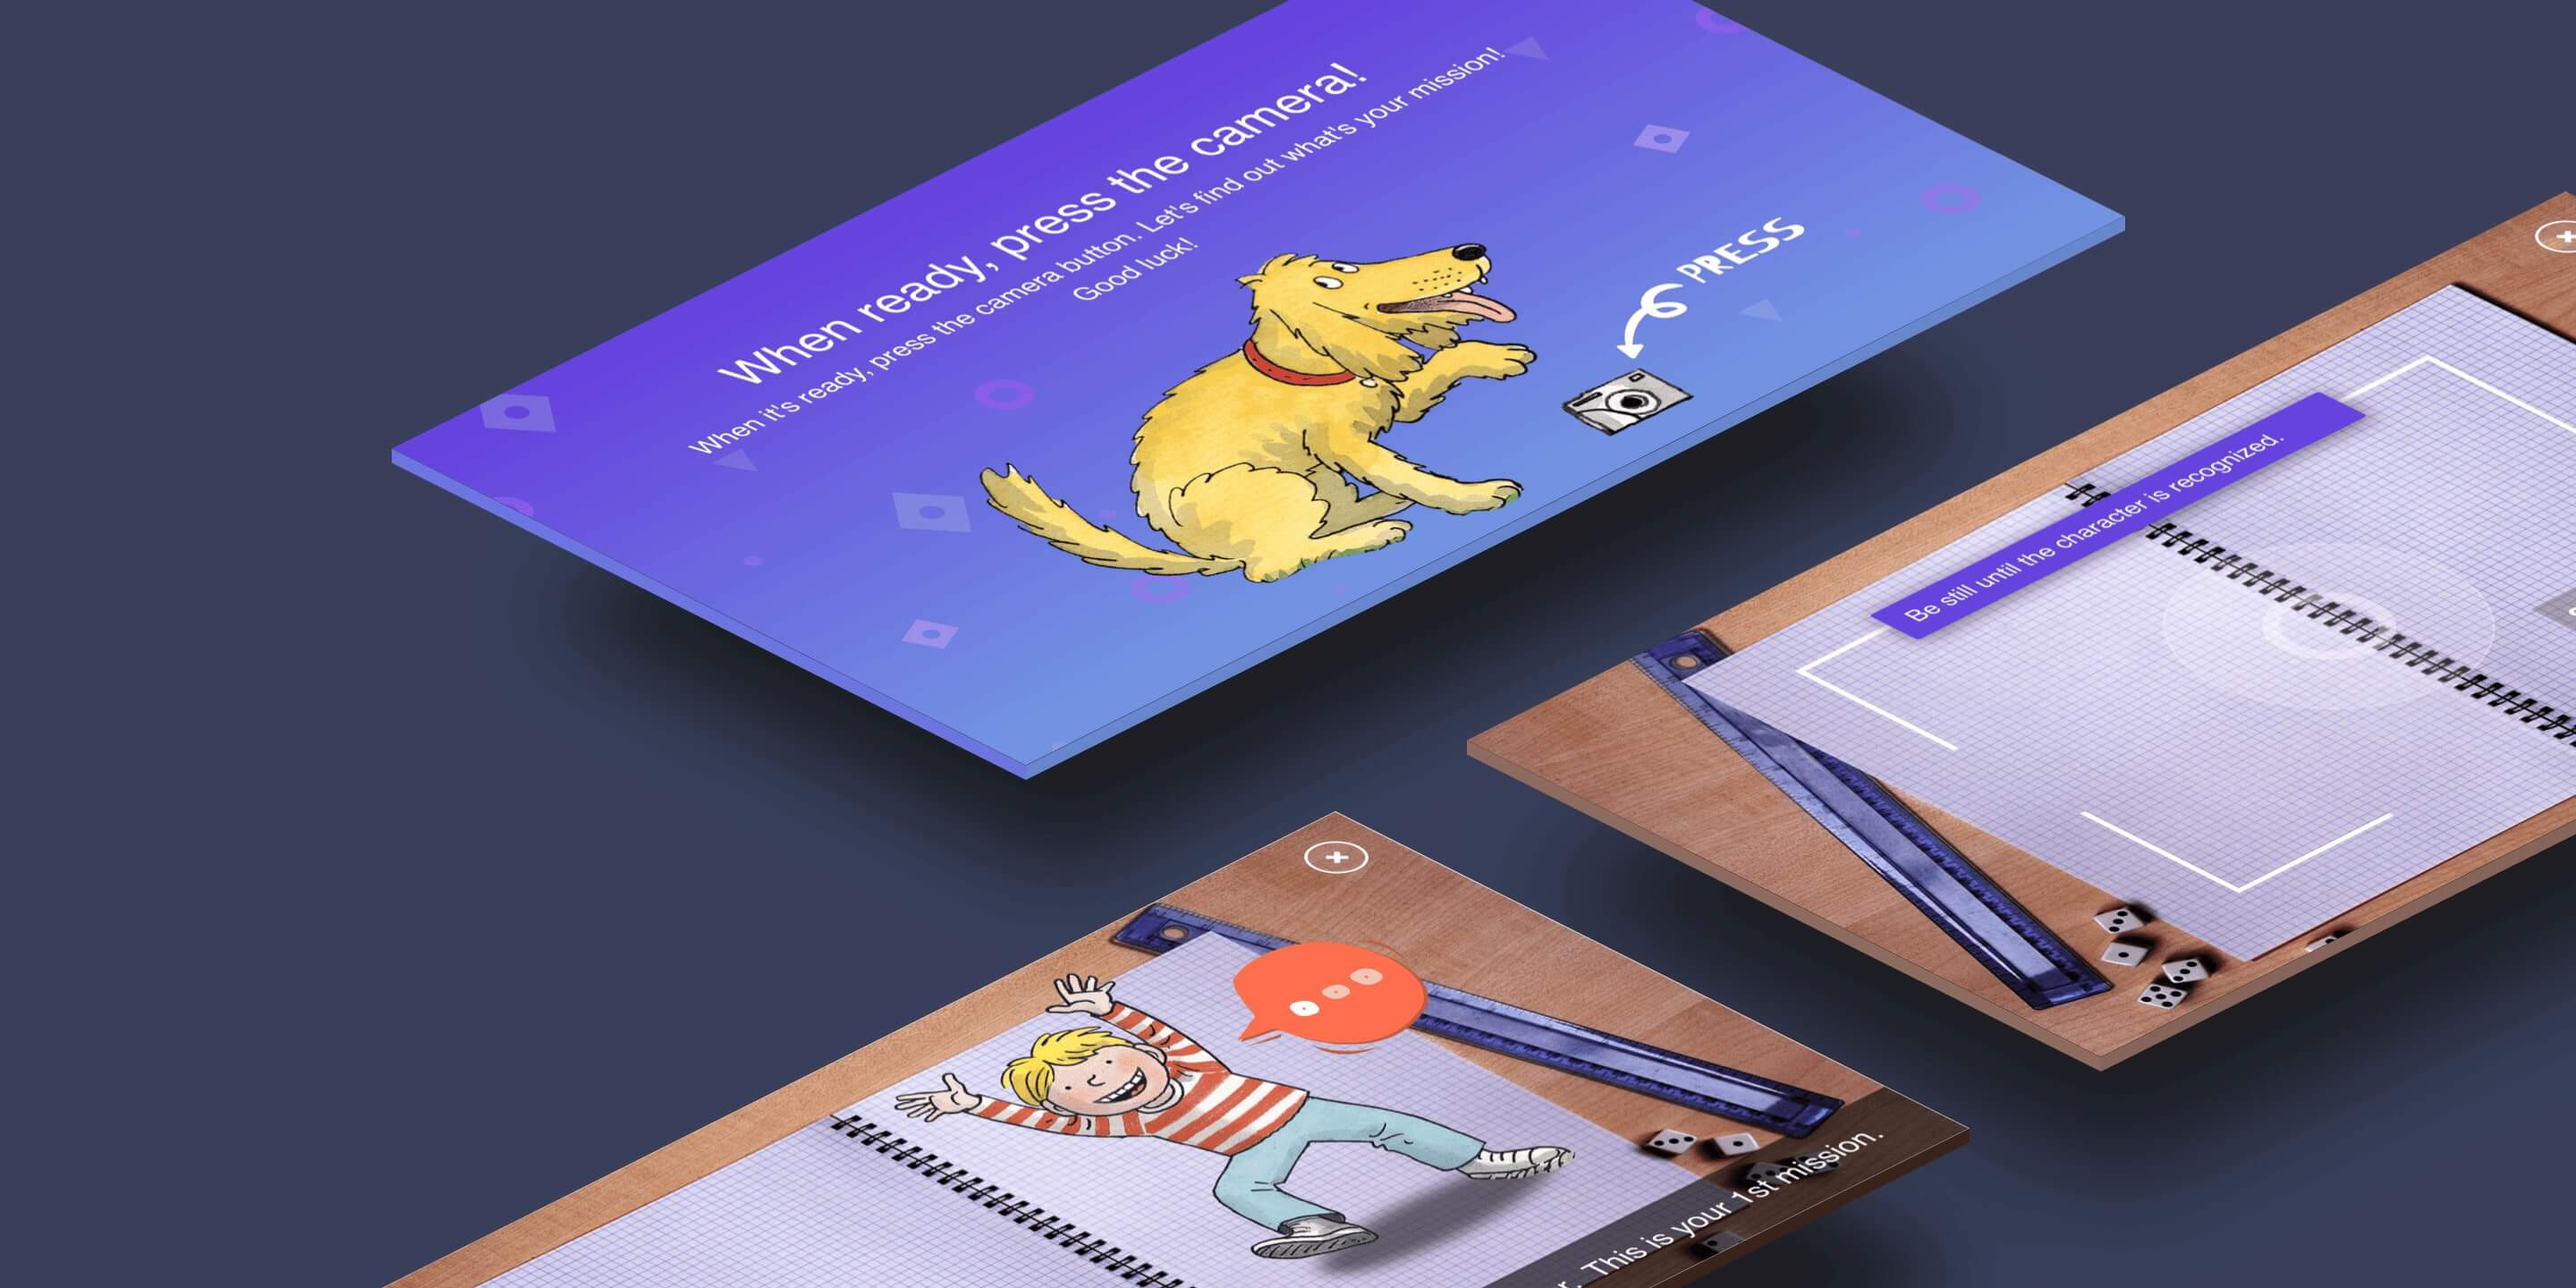
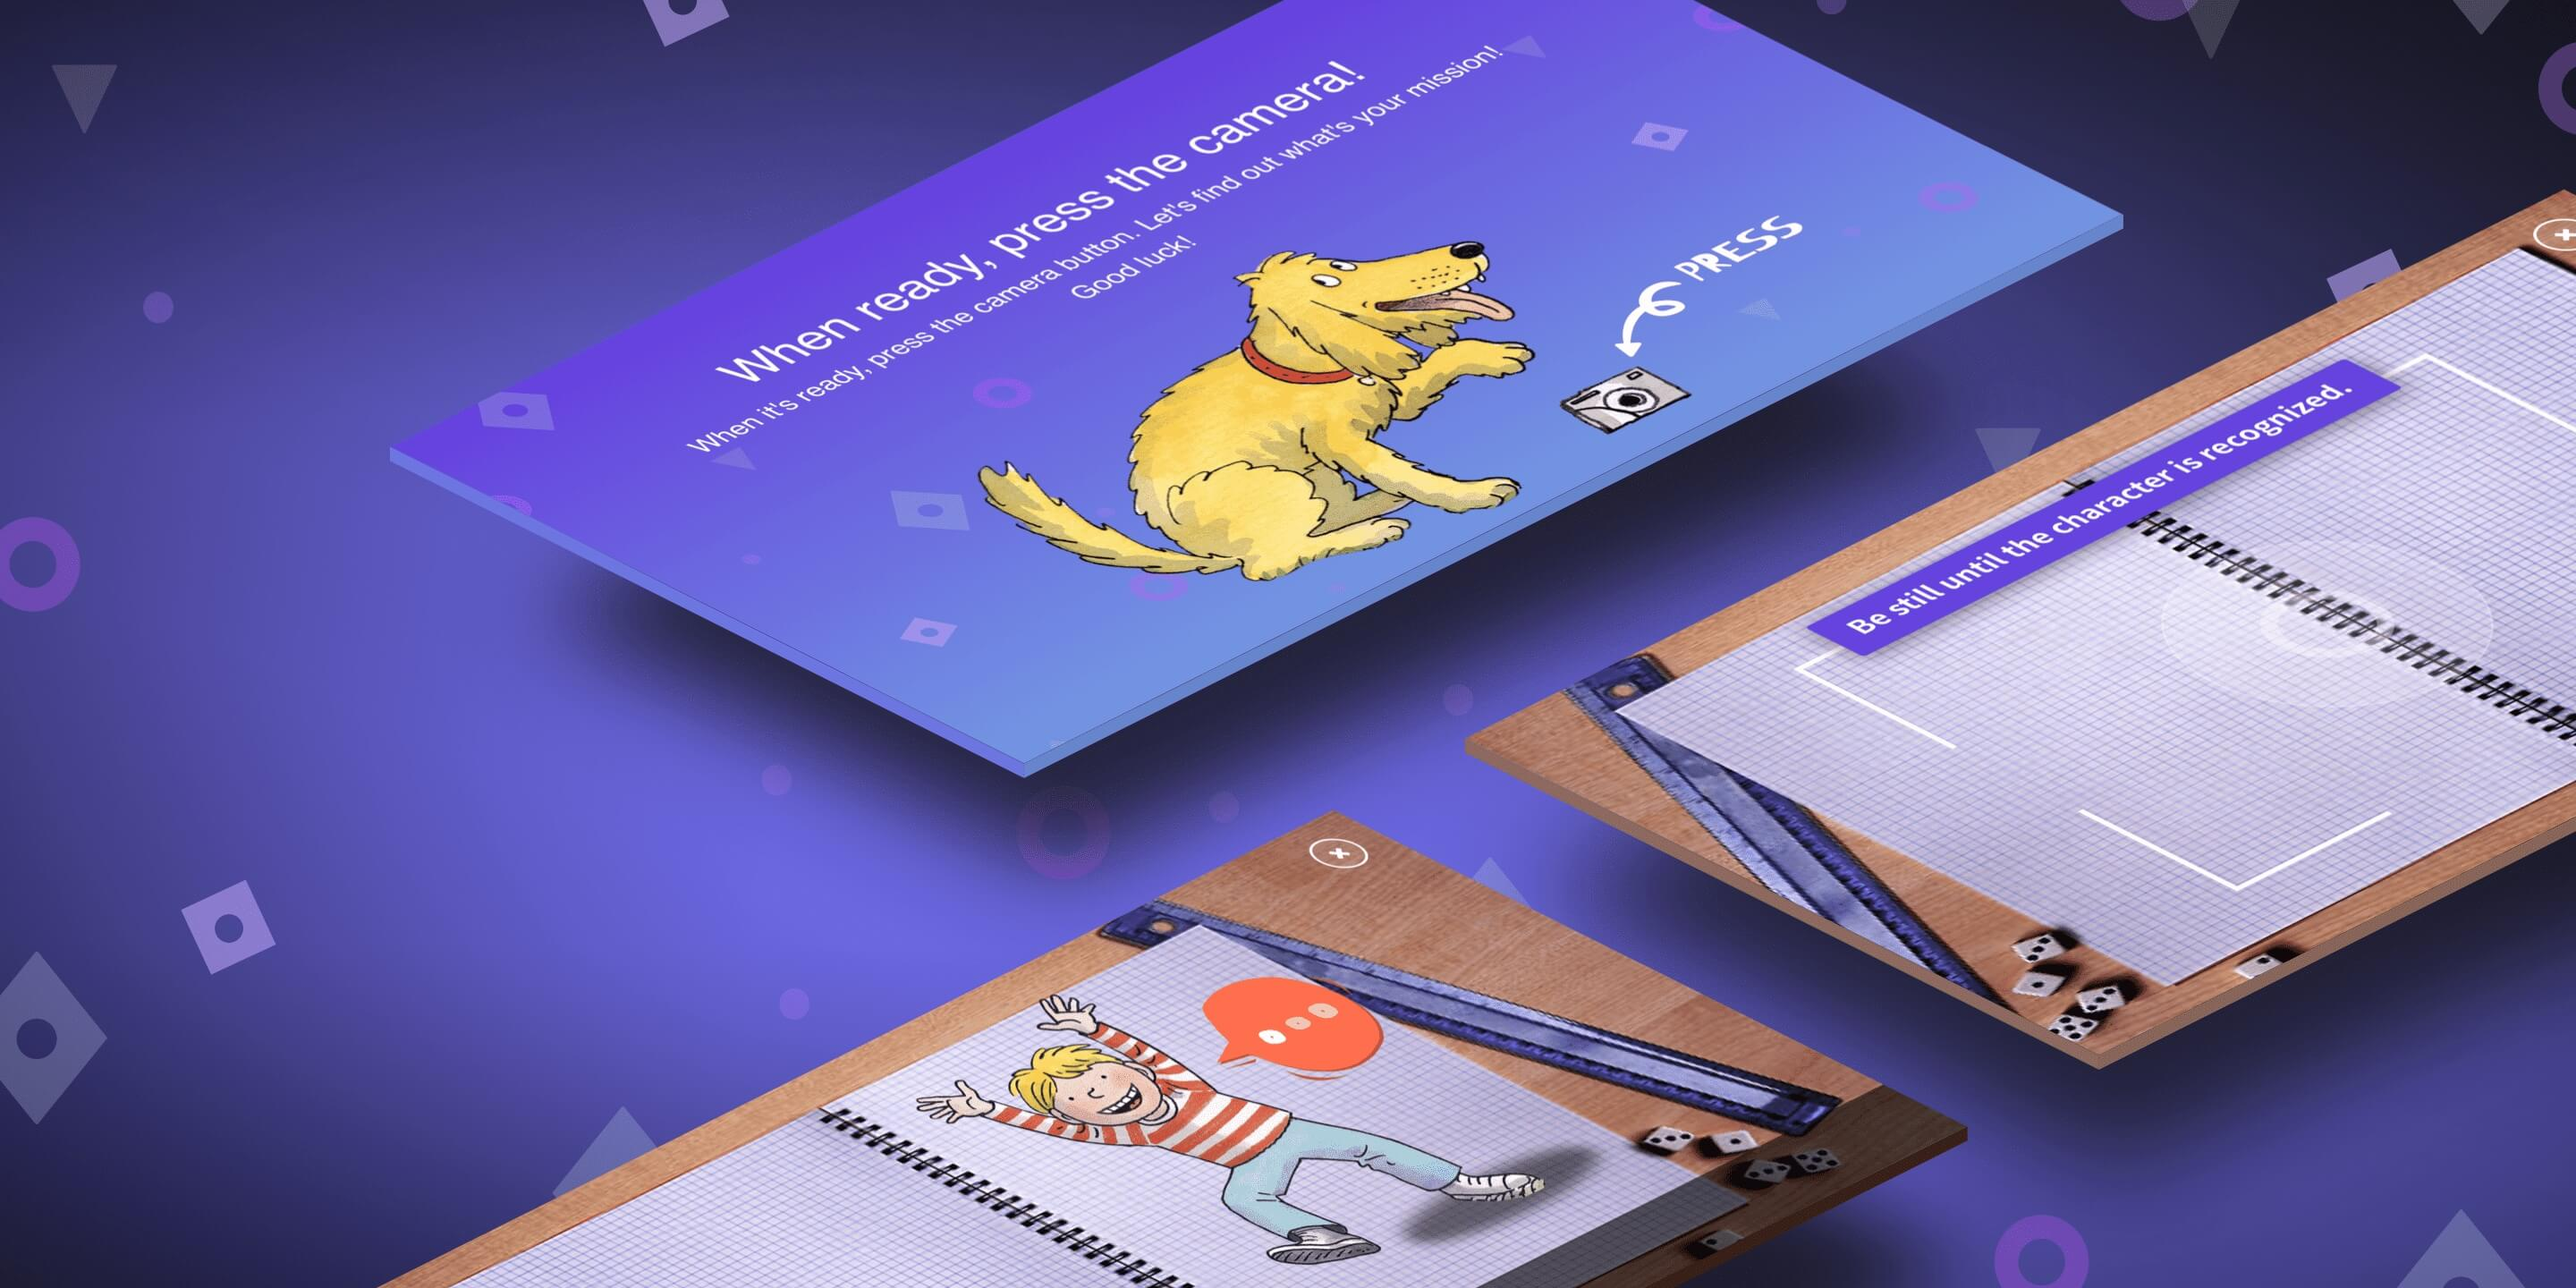
Update images

diff --git a/src/views/projects/lms.html b/src/views/projects/lms.html
@@ -48,7 +48,7 @@
       </div>
 
       <div class="main-visual fixed-wrap w1440 wide">
-        <img src="/contents/img/projects/lms/project@2x.png" alt="LMS" class="sa-v2" />
+        <img src="/contents/img/projects/lms/bg-pages@2x.png" alt="LMS" class="sa-v2" />
         <div class="description fixed-wrap">
           <h2>Learning Management System</h2>
           <p>
